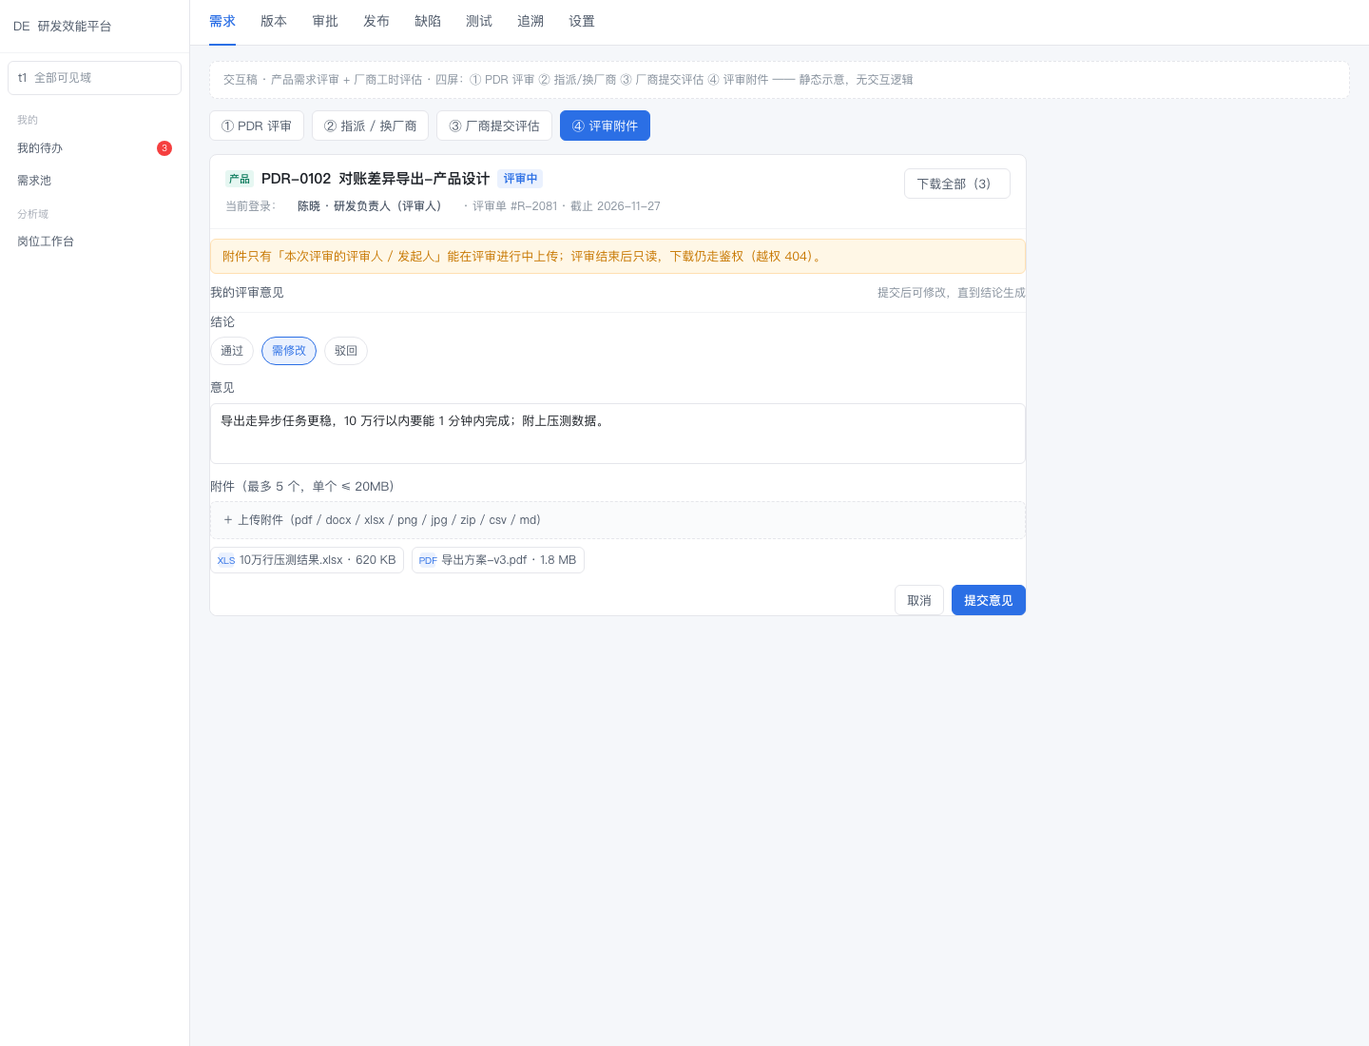
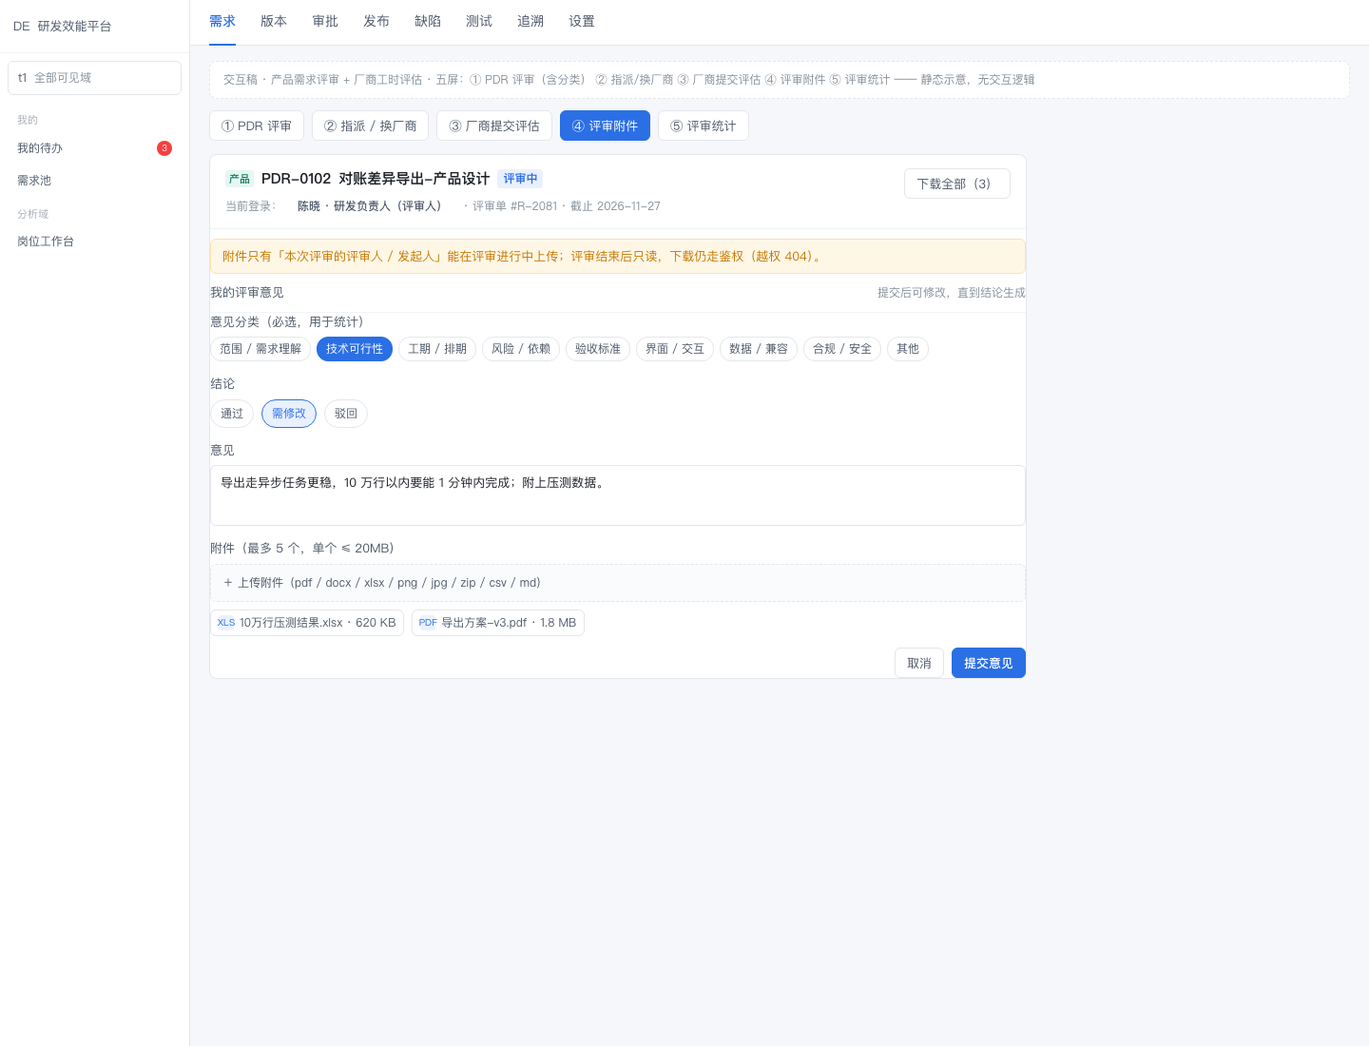
docs: 评审意见支持分类（9 类字典）+ 分类统计（stats 接口/分析域数据集/看板卡），补 C1–C4 验收与第 5 屏交互稿

diff --git a/docs/teamflow/prototype-pdr-review/index.html b/docs/teamflow/prototype-pdr-review/index.html
@@ -35,6 +35,20 @@
   .member-pick{display:flex;flex-wrap:wrap;gap:8px}
   .member-pick .m{display:flex;align-items:center;gap:6px;border:1px solid var(--border);border-radius:16px;padding:5px 10px;font-size:12px;background:#fff}
   .member-pick .m.sel{border-color:var(--primary);background:var(--primary-light);color:var(--primary)}
+  .bar-row{display:flex;align-items:center;gap:10px;margin:9px 0;font-size:12px}
+  .bar-row .muted{width:112px;flex:0 0 112px}
+  .bar-row .track{flex:1;height:8px;background:#F2F3F5;border-radius:4px;overflow:hidden}
+  .bar-row .fill{height:8px;background:var(--primary);border-radius:4px}
+  .bar-row b{width:64px;text-align:right;font-size:12px}
+  .cats{display:flex;flex-wrap:wrap;gap:6px}
+  .cats .c{font-size:12px;padding:3px 9px;border-radius:12px;border:1px solid var(--border);color:var(--text-body);background:#fff}
+  .cats .c.sel{background:var(--primary);border-color:var(--primary);color:#fff}
+  .dist{display:flex;flex-direction:column;gap:6px;font-size:12px;color:var(--text-body);margin:2px 0 12px;border:1px solid var(--divider);border-radius:6px;padding:8px 10px;background:#FAFBFC}
+  .dist .b{display:flex;align-items:center;gap:8px}
+  .dist .b .nm{width:56px;flex:0 0 56px;color:var(--text-muted)}
+  .dist .track{flex:1;height:6px;background:#F2F3F5;border-radius:3px;overflow:hidden}
+  .dist .fill{height:6px;background:var(--primary)}
+  .dist .num{width:20px;text-align:right;color:var(--text-title)}
   .attach{display:flex;flex-wrap:wrap;gap:8px;margin-top:8px}
   .attach .a{display:flex;align-items:center;gap:6px;border:1px solid var(--border);border-radius:6px;padding:4px 8px;font-size:12px;color:var(--text-body);background:#fff}
   .attach .a .ic{width:16px;height:16px;border-radius:3px;background:var(--primary-light);color:var(--primary);font-size:10px;display:inline-flex;align-items:center;justify-content:center}
@@ -60,12 +74,13 @@
   <div class="main">
     <div class="topnav"><a class="active">需求</a><a>版本</a><a>审批</a><a>发布</a><a>缺陷</a><a>测试</a><a>追溯</a><a>设置</a></div>
     <div class="page">
-      <div class="proto-bar">交互稿 · 产品需求评审 + 厂商工时评估 · 四屏：① PDR 评审 ② 指派/换厂商 ③ 厂商提交评估 ④ 评审附件 —— 静态示意，无交互逻辑</div>
+      <div class="proto-bar">交互稿 · 产品需求评审 + 厂商工时评估 · 五屏：① PDR 评审（含分类） ② 指派/换厂商 ③ 厂商提交评估 ④ 评审附件 ⑤ 评审统计 —— 静态示意，无交互逻辑</div>
       <div class="switcher">
         <button class="btn on" data-sec="s1">① PDR 评审</button>
         <button class="btn" data-sec="s2">② 指派 / 换厂商</button>
         <button class="btn" data-sec="s3">③ 厂商提交评估</button>
         <button class="btn" data-sec="s4">④ 评审附件</button>
+        <button class="btn" data-sec="s5">⑤ 评审统计</button>
       </div>
 
       <!-- ============ 屏 1：PDR 评审 ============ -->
@@ -130,18 +145,25 @@
 
                 <div class="panel" style="border:none">
                   <div class="panel-head" style="padding:0 0 10px"><span>评审意见</span><span class="muted">2 条 · 附件 3 个</span></div>
+                  <div class="dist">
+                    <span class="muted" style="margin-bottom:2px">意见分类分布（本单）</span>
+                    <span class="b"><span class="nm">范围</span><span class="track"><span class="fill" style="width:100%"></span></span><span class="num">3</span></span>
+                    <span class="b"><span class="nm">技术</span><span class="track"><span class="fill" style="width:66%"></span></span><span class="num">2</span></span>
+                    <span class="b"><span class="nm">验收</span><span class="track"><span class="fill" style="width:33%"></span></span><span class="num">1</span></span>
+                    <span class="b"><span class="nm">工期</span><span class="track"><span class="fill" style="width:0%"></span></span><span class="num">0</span></span>
+                  </div>
                   <div class="opinion">
-                    <div class="who">王坤 · 通过 <span class="muted" style="font-weight:400">2026-11-25 09:12</span></div>
+                    <div class="who"><span class="pill pill-gray">范围</span> 王坤 · 通过 <span class="muted" style="font-weight:400">2026-11-25 09:12</span></div>
                     <div class="body">范围清晰。导出字段与对账表一致，建议默认只导差异行。</div>
                     <div class="attach"><span class="a"><span class="ic">PDF</span>规格说明-v2.pdf · 1.2 MB</span></div>
                   </div>
                   <div class="opinion">
-                    <div class="who">李雯 · 通过 <span class="muted" style="font-weight:400">2026-11-25 10:04</span></div>
+                    <div class="who"><span class="pill pill-gray">验收标准</span> 李雯 · 通过 <span class="muted" style="font-weight:400">2026-11-25 10:04</span></div>
                     <div class="body">业务侧确认：需要带差异原因列，导出后能直接发供应商。</div>
                     <div class="attach"><span class="a"><span class="ic">XLS</span>差异样例.xlsx · 240 KB</span><span class="a"><span class="ic">PNG</span>对账界面截图.png · 880 KB</span></div>
                   </div>
                   <div class="opinion" style="background:#FFF7E6;border-color:#FFE0B2">
-                    <div class="who">示例：需修改（陈晓）</div>
+                    <div class="who"><span class="pill pill-gray">技术可行性</span> 示例：需修改（陈晓）</div>
                     <div class="body">导出走异步任务更稳，10 万行以内要能 1 分钟内完成；请在方案里写清上限与失败重试。</div>
                   </div>
                 </div>
@@ -172,6 +194,10 @@
                 <label>评审材料（可选，评审人可下载）</label>
                 <div class="upload">＋ 点击或拖拽上传（pdf / docx / xlsx / png / jpg / zip / csv / md，单个 ≤ 20MB）</div>
                 <div class="attach"><span class="a"><span class="ic">PDF</span>需求规格说明.pdf · 1.2 MB</span></div>
+              </div>
+              <div class="field">
+                <label>评审意见分类（评审人填写时必选，用于统计）</label>
+                <div class="cats"><span class="c sel">范围 / 需求理解</span><span class="c">技术可行性</span><span class="c">工期 / 排期</span><span class="c">风险 / 依赖</span><span class="c">验收标准</span><span class="c">界面 / 交互</span><span class="c">数据 / 兼容</span><span class="c">合规 / 安全</span><span class="c">其他</span></div>
               </div>
               <div class="field" style="margin:0">
                 <label>结论汇总规则</label>
@@ -289,6 +315,40 @@
           </div>
         </div>
       </section>
+      <!-- ============ 屏 5：评审统计 ============ -->
+      <section class="sec" id="s5">
+        <div class="page-head"><div class="page-title">评审质量 · 意见分类统计</div><div class="head-actions"><button class="btn">导出 XLSX（带水印）</button></div></div>
+        <div class="kpi-row" style="margin-bottom:12px">
+          <div class="kpi"><div class="muted">评审单</div><div class="v">38</div><div class="hint">近 30 天 · 全部域</div></div>
+          <div class="kpi"><div class="muted">评审意见</div><div class="v">126</div><div class="hint">6 条/单</div></div>
+          <div class="kpi"><div class="muted">需修改率</div><div class="v">23.8%</div><div class="hint">按意见口径</div></div>
+          <div class="kpi"><div class="muted">平均评审时长</div><div class="v">21.4h</div><div class="hint">P90 46h</div></div>
+        </div>
+        <div class="cols-2">
+          <div class="panel"><div class="panel-head"><span>意见分类分布</span><span class="muted">近 30 天</span></div>
+            <div class="panel-body">
+              <div class="bar-row"><span class="muted">范围 / 需求理解</span><div class="track" style="flex:1"><div class="fill" style="width:86%"></div></div><b>43</b></div>
+              <div class="bar-row"><span class="muted">技术可行性</span><div class="track" style="flex:1"><div class="fill" style="width:58%"></div></div><b>29</b></div>
+              <div class="bar-row"><span class="muted">工期 / 排期</span><div class="track" style="flex:1"><div class="fill" style="width:34%"></div></div><b>17</b></div>
+              <div class="bar-row"><span class="muted">验收标准</span><div class="track" style="flex:1"><div class="fill" style="width:26%"></div></div><b>13</b></div>
+              <div class="bar-row"><span class="muted">风险 / 依赖</span><div class="track" style="flex:1"><div class="fill" style="width:20%"></div></div><b>10</b></div>
+              <div class="bar-row"><span class="muted">界面 / 交互</span><div class="track" style="flex:1"><div class="fill" style="width:14%"></div></div><b>7</b></div>
+              <div class="bar-row"><span class="muted">数据 / 兼容</span><div class="track" style="flex:1"><div class="fill" style="width:10%"></div></div><b>5</b></div>
+              <div class="bar-row"><span class="muted">合规 / 安全</span><div class="track" style="flex:1"><div class="fill" style="width:4%"></div></div><b>2</b></div>
+            </div>
+          </div>
+          <div class="panel"><div class="panel-head"><span>按评审人</span><span class="muted">意见 / 需修改</span></div>
+            <div class="panel-body">
+              <div class="bar-row"><span class="muted">陈晓 · DEV</span><div class="track" style="flex:1"><div class="fill" style="width:70%"></div></div><b>34 / 9</b></div>
+              <div class="bar-row"><span class="muted">孙倩 · QA</span><div class="track" style="flex:1"><div class="fill" style="width:52%"></div></div><b>26 / 6</b></div>
+              <div class="bar-row"><span class="muted">王坤 · PO</span><div class="track" style="flex:1"><div class="fill" style="width:44%"></div></div><b>22 / 5</b></div>
+              <div class="bar-row"><span class="muted">李雯 · SME</span><div class="track" style="flex:1"><div class="fill" style="width:30%"></div></div><b>15 / 9</b></div>
+              <div class="hint" style="margin-top:10px">与「自助报表」用同一套数据集：`pdr_review` / `pdr_review_opinion`，页面、看板、导出三处数字同源。</div>
+            </div>
+          </div>
+        </div>
+      </section>
+
       <!-- ============ 屏 4：评审附件 ============ -->
       <section class="sec" id="s4">
         <div class="panel" style="max-width:860px">
@@ -304,6 +364,9 @@
 
           <div class="panel" style="border:none">
             <div class="panel-head" style="padding:0 0 10px"><span>我的评审意见</span><span class="muted">提交后可修改，直到结论生成</span></div>
+            <div class="field"><label>意见分类（必选，用于统计）</label>
+              <div class="cats"><span class="c">范围 / 需求理解</span><span class="c sel">技术可行性</span><span class="c">工期 / 排期</span><span class="c">风险 / 依赖</span><span class="c">验收标准</span><span class="c">界面 / 交互</span><span class="c">数据 / 兼容</span><span class="c">合规 / 安全</span><span class="c">其他</span></div>
+            </div>
             <div class="field"><label>结论</label>
               <div class="member-pick"><span class="m">通过</span><span class="m sel">需修改</span><span class="m">驳回</span></div>
             </div>

diff --git a/docs/teamflow/CHANGE-PDR-REVIEW-VENDOR-ESTIMATE.md b/docs/teamflow/CHANGE-PDR-REVIEW-VENDOR-ESTIMATE.md
@@ -89,7 +89,7 @@
 | `project` | `id, tenant_id, code, name, domain_id, owner_user_id, status(ACTIVE/ARCHIVED), created_at` | `uk(tenant_id, code)`；`idx(tenant_id, domain_id)` |
 | `project_member` | `id, tenant_id, project_id, user_id, role_in_project(PO/PM/DEV/QA/SME), active, joined_at` | `uk(project_id, user_id)`；`idx(tenant_id, user_id)` |
 | `pdr_review` | `id, tenant_id, requirement_id, project_id, instance_id, status(DRAFT/IN_REVIEW/PASSED/REJECTED/CANCELLED), conclusion, initiator_id, created_at, closed_at` | **`uk(requirement_id) where status='IN_REVIEW'`**（同一需求同时只允许 1 张在评）；`idx(tenant_id, status)` |
-| `pdr_review_opinion` | `id, tenant_id, review_id, reviewer_id, decision(PASS/NEED_CHANGE/REJECT), comment, created_at` | `uk(review_id, reviewer_id)`（同一人只留一条有效意见，重提覆盖并进历史） |
+| `pdr_review_opinion` | `id, tenant_id, review_id, reviewer_id, decision(PASS/NEED_CHANGE/REJECT), **category**, comment, created_at` | `uk(review_id, reviewer_id)`；`idx(tenant_id, category)`（统计用） |
 
 ### 4.2 评审附件（复用既有附件表，不新增表）
 
@@ -112,6 +112,28 @@
 
 > 若评估单以 JSON 文档存于审批实例（现状如此，`EstimateSnapshot`），则把 `vendor_id` 写进文档并在 `wbs_estimate` 汇总表加列以便查询/校验；两种存法都要在验收里断言「换厂商后读出来是 STALE」。
 
+### 4.4 评审意见分类（便于统计）
+
+意见必须带**一个**分类（单选，够统计且不逼用户做多标签判断）；分类走 `sys_dict` 字典而不是硬编码枚举，业务可自行增删：
+
+| code | 中文 | 典型用法 |
+|---|---|---|
+| `RANGE` | 范围 / 需求理解 | 边界不清、漏场景、与父需求不一致 |
+| `TECH` | 技术可行性 | 实现方案、性能、异步/批量、依赖能力 |
+| `SCHEDULE` | 工期 / 排期 | 人天评估、排期冲突、依赖顺序 |
+| `RISK` | 风险 / 依赖 | 外部系统、数据迁移、上线风险 |
+| `ACCEPTANCE` | 验收标准 | 通过条件、测试口径、口径不一致 |
+| `UI` | 界面 / 交互 | 页面流程、字段展示、状态可读性 |
+| `DATA` | 数据 / 兼容 | 字段口径、历史数据、导入导出格式 |
+| `COMPLIANCE` | 合规 / 安全 | 权限、脱敏、审计、水印 |
+| `OTHER` | 其他 | 兜底（缺省值，允许但不鼓励） |
+
+统计口径（三处同源，避免"页面一个数、报表另一个数"）：
+- 意见数、各分类占比、需修改/驳回率（按意见、按评审单两种口径都要给）；
+- 平均评审时长 = 评审单 `created_at → closed_at`（小时），以及 P90；
+- 评审人维度：每人发起/参与/意见数/需修改比例。
+- 维度表：`pdr_review`（评审单）、`pdr_review_opinion`（意见）作为新数据集进分析域，供 `/reports` 自助报表与看板直接取数（复用既有 `AnalyticsDatasets` 白名单机制，**不写第二套 SQL 引擎**）。
+
 ## 5. 接口变更
 
 ### 5.1 新增
@@ -121,9 +143,11 @@
 | `GET/POST` | `/projects`、`PUT /projects/{id}` | 项目维护 | 权限 `org:manage` |
 | `GET/POST/DELETE` | `/projects/{id}/members` | 项目成员维护 | 同上 |
 | `POST` | `/requirements/{id}/pdr-review` | 发起 PDR 评审：`{reviewerIds:[], note}` | 动作码 `req.action.pdr_review_start` |
-| `POST` | `/pdr-reviews/{reviewId}/opinions` | 评审人提交意见：`{decision, comment}` | 动作码 `req.action.pdr_review_opinion` |
+| `POST` | `/pdr-reviews/{reviewId}/opinions` | 评审人提交意见：`{decision, **category**, comment}`（`category` 必填，非法值 400 `INVALID_CATEGORY`） | 动作码 `req.action.pdr_review_opinion` |
 | `POST` | `/pdr-reviews/{reviewId}/conclude` | 汇总结论（**也可以全票后自动汇总**，见 §6 R2） | 动作码 `req.action.pdr_review_conclude` |
 | `GET` | `/requirements/{id}/pdr-review` | 读评审单 + 意见列表 | 页面码 `req.pool` |
+| `GET` | `/pdr-reviews/stats` | 意见分类统计：`?domainId&from&to&groupBy=CATEGORY\|REVIEWER\|DECISION` → 计数 / 占比 / 平均评审时长 | 页面码 `req.pool`（读） |
+| `GET` | `/pdr-reviews/datasets` | 分析域数据集白名单元信息（`pdr_review`、`pdr_review_opinion`，含维度/度量） | 复用 `/reports/datasets` 机制 |
 
 ### 5.2 评审附件（复用 `/attachments`，不新增端点）
 
@@ -145,7 +169,7 @@
 ## 6. 服务端规则（可直接抄成 PRD 验收）
 
 - **R1 顺序门**：PDR 未通过评审 → 指派厂商/评估/排期一律 409 `PDR_REVIEW_REQUIRED`；未指派厂商 → 评估 409 `VENDOR_NOT_ASSIGNED`；评估未通过 → 排期 409 `ESTIMATE_NOT_APPROVED`（已有）。
-- **R2 评审结论**：`MODE_ALL`（默认全员通过才算通过）；任一 `NEED_CHANGE`/`REJECT` → 评审 `REJECTED`，PDR 保持可编辑并记录意见；重新发起评审需新建单据（历史保留）。
+- **R2 评审结论与分类**：意见必须带 `category`（非法/缺失 → 400 `INVALID_CATEGORY`，`detail.allowed[]` 列可选值）；`MODE_ALL`（默认全员通过才算通过）；任一 `NEED_CHANGE`/`REJECT` → 评审 `REJECTED`，PDR 保持可编辑并记录意见；重新发起评审需新建单据（历史保留）。
 - **R3 换厂商**：允许窗口 = RD 处于 `TODO` 且 PDR 未进 `IN_DEV`；换厂商 → 该需求 `APPROVED` 评估单派生 `STALE`（原因 `VENDOR_CHANGED`）→ 状态回到「待评估」；`IN_DEV` 之后 409 `VENDOR_LOCKED`；换厂商必须填原因，写 `VENDOR_CHANGED` 审计并通知新旧厂商。
 - **R4 厂商评估**：厂商账号（`VENDOR_PM` 与厂商研发）可提交评估，且 `requirement.assignee_vendor_id == user.vendorId`，否则 `403 OUT_OF_SCOPE`；内部 PMO/研发**保留提交权**（缺省保留，便于兜底），但同样要求先指派厂商。
 - **R5 幂等与并发**：同一需求同时只有 1 张 `IN_REVIEW` 评审单、1 张 `ACTIVE` 评估单；并发发起/重复提交用唯一约束 + 409 兜底；换厂商与提交评估加乐观锁（`version`）避免「换厂商后立刻被旧厂商提交评估」。
@@ -169,8 +193,11 @@
 ![指派/换厂商](prototype-pdr-review/shot-2-vendor-transfer.png)
 ![厂商提交评估](prototype-pdr-review/shot-3-vendor-estimate.png)
 ![评审附件](prototype-pdr-review/shot-4-review-attachments.png)
+![评审统计](prototype-pdr-review/shot-5-review-stats.png)
 
 
+0. **意见分类**：提交意见时先选分类（9 个 chip，单选，必填），意见卡左上角展示分类标签；评审 tab 顶部一行「分类分布」小条形（范围 3 / 技术 1 / 工期 2 …），点分类可过滤意见列表。
+0.1 **统计视图**：分析域「评审质量」看板卡：各分类意见数堆叠柱、需修改率、平均评审时长 P90、按评审人 Top N（复用 `MetricFormulas` 同源口径）。
 0. **评审附件**：发起评审弹窗里可先挂「评审材料」；每位评审人提交意见时可附 1–5 个附件（截图里是「规格说明.pdf / 差异样例.xlsx」这类），意见卡下方展示附件 chip（文件名 + 大小 + 下载）；评审结束后 chip 变只读、无删除按钮。
 1. **PDR 详情新增「评审」tab**：发起按钮 + 评审人选择（只能选项目组成员，多选）+ 说明；列表展示每人「通过/需修改/驳回 + 意见 + 时间」；顶部结论条（N/M 已评）。
 2. **指派厂商弹窗改造**：加「换厂商会作废已通过的工时评估，需重新评估」的黄色提示；原因必填；`IN_DEV` 后按钮禁用并给原因。
@@ -182,7 +209,7 @@
 | 样例 | 期望 |
 |---|---|
 | 项目 | `DEMO-PROJ-1 供应链平台`，成员 5 人（产品经理/域负责人/研发/测试/厂商 PM） |
-| PDR-1 | 待评审（评审单 IN_REVIEW，2/4 已评），带 2 个评审附件（`规格说明.pdf`、`差异样例.xlsx`） |
+| PDR-1 | 待评审（评审单 IN_REVIEW，2/4 已评），带 2 个评审附件（`规格说明.pdf`、`差异样例.xlsx`）；已有意见覆盖 3 个分类（RANGE/TECH/ACCEPTANCE） |
 | PDR-2 | 评审通过、已指派 VEN-A、待提交评估 |
 | PDR-3 | 评审通过、VEN-A 评估通过、已排期 |
 | RD | 挂在 PDR-3 下，`TODO`（可用于演示换厂商 → 评估失效） |
@@ -205,8 +232,12 @@
 | B7 | 非本评审的评审人上传 | 403 `NOT_REVIEWER` |
 | B8 | 评审结束后再上传/删除 | 409 `REVIEW_CLOSED`；下载仍可（只读） |
 | B9 | 上传 25MB 文件 / 上传 `.exe` | 413 `FILE_TOO_LARGE` / 415 `UNSUPPORTED_MEDIA_TYPE` |
+| C1 | 提交意见不带 `category` / 传 `category=FOO` | 400 `INVALID_CATEGORY`（`detail.allowed[]` 含 9 个 code） |
+| C2 | 一次评审 6 条意见（3 RANGE / 2 TECH / 1 ACCEPTANCE） | `GET /pdr-reviews/stats?groupBy=CATEGORY` 返回与明细逐分类相等，占比合计 100% |
+| C3 | 同一批数据在 `/reports` 用新数据集 `pdr_review_opinion` 拉交叉表 | 与 `/pdr-reviews/stats` 数字逐项相等（同源断言） |
+| C4 | 统计按域/厂商隔离 | 厂商账号的 `stats` 只统计本厂商可见评审（与明细条数一致） |
 
-门禁：既有 9 套不得降（`rbac` / `access` / `platform` / `negative` / `release-flow` / `gate-order` / `automation` / `change` / `demo-reset`）；新增 `scripts/pdr-flow-verify.sh` ≥24 条断言（含 A1–A5、B1–B9、换厂商幂等与附件越权），接入 `make test`。
+门禁：既有 9 套不得降（`rbac` / `access` / `platform` / `negative` / `release-flow` / `gate-order` / `automation` / `change` / `demo-reset`）；新增 `scripts/pdr-flow-verify.sh` ≥30 条断言（含 A1–A5、B1–B9、C1–C4、换厂商幂等与附件越权），接入 `make test`。
 
 ## 11. 迁移与兼容
 
@@ -220,6 +251,7 @@
 **后端**：`requirement`（服务/控制器/规则/错误码）、`approval`（新单据类型 + 回调）、`estimate`（vendors 绑定）、`sys`（项目组 CRUD）、`platform-contract`（动作码/状态表）、`platform-common`（路由表）、迁移 2 条。
 **前端**：需求详情（评审 tab、评估卡、指派厂商弹窗）、项目组管理页、审批中心（新单据类型文案）、动作按钮禁用原因。
 **附件**：`AttachmentService.normalizeType` 加 `PDR_REVIEW`、`resolveBiz` 增加评审单归属解析、上传/删除的评审态校验、前端评审 tab 附件区。
+**统计**：`sys_dict` 加 `review_opinion_category` 字典、`/pdr-reviews/stats` 聚合（单条 SQL 按 category/reviewer/decision 分组，避免 N+1）、分析域新增两个数据集进 `AnalyticsDatasets` 白名单、看板卡与自助报表复用 `MetricFormulas` 同源口径。
 **脚本/数据**：`platform-demo-reset.sh`（新夹具）、`pdr-flow-verify.sh`（新门禁）、`SeedService`（项目组种子）、`DEMO-BY-ROLE.md`、`FLOW-CONTROL-AUDIT.md`。
 
 **风险**
@@ -230,6 +262,7 @@
 | 存量数据无项目组 | 老 PDR 无法评审 | 回退规则（产品经理 + 域负责人）并标记 `fallback` |
 | 状态机改动面大 | 旧门禁/演示脚本红 | 不改 PDR 状态机（用门禁而非新态），把风险限制在规则层 |
 | 厂商权限放大 | 越权看到别家需求 | 复用既有 `ScopeSql` 行级隔离 + `OUT_OF_SCOPE` 负向断言 |
+| 分类体系设计不当 | 统计维度失真、填了没用 | 先给 9 类最小集合 + `OTHER` 兜底；字典可配、后续按实际使用率收敛；统计口径三处同源断言（C2/C3） |
 | 评审附件被滥用（大文件/恶意类型/越权下载） | 存储膨胀、信息泄露 | 20MB 上限 + 类型白名单 + `sha256` + 鉴权下载（越权 404）+ 评审结束只读；病毒扫描列为 P2（接 ClamAV 或不接，需产品确认） |
 
 ## 13. 建议分轮
@@ -240,5 +273,5 @@
 ## 14. 交付物清单
 
 1. `docs/teamflow/CHANGE-PDR-REVIEW-VENDOR-ESTIMATE.md` + `.html`（本文）
-2. `docs/teamflow/prototype-pdr-review/index.html`（4 屏交互稿：PDR 评审 / 指派换厂商 / 厂商评估 / 评审附件）+ 截图
+2. `docs/teamflow/prototype-pdr-review/index.html`（5 屏交互稿：PDR 评审（含分类）/ 指派换厂商 / 厂商评估 / 评审附件 / 评审统计）+ 截图
 3. 流水线 PRD（由 TeamFlow 依据本文生成）→ 设计 → 技术方案 → 开发 → QA → 验收
